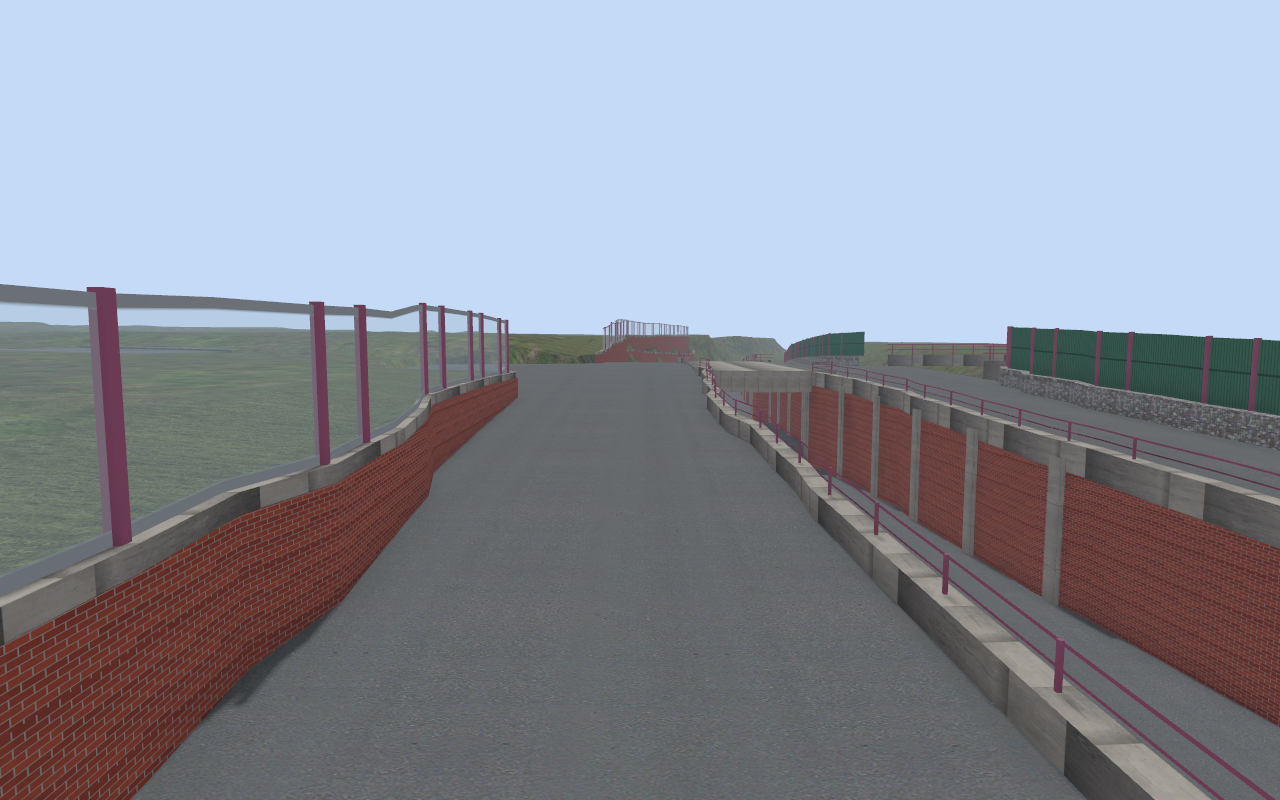
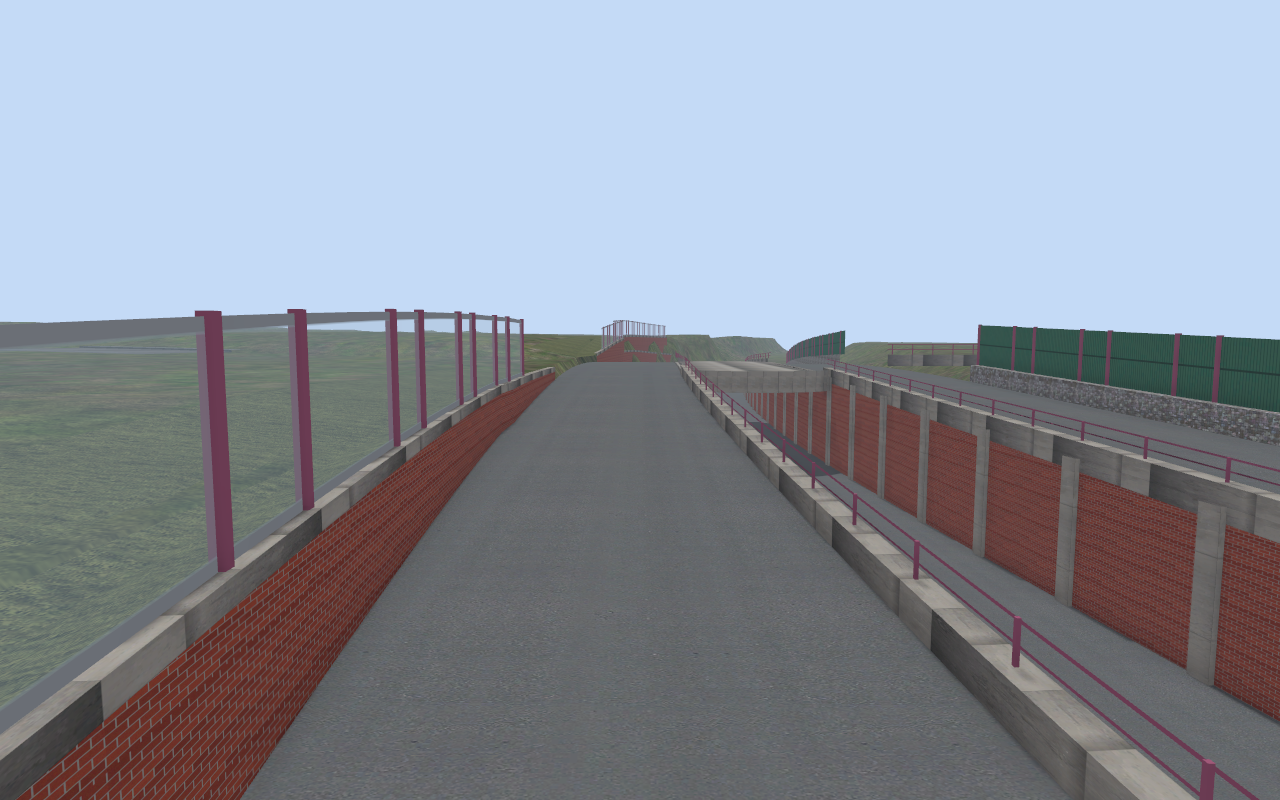
Sonderbau Ring: Waende, Sohle und Decke aus dem Entwurf (Achse aus Geraden/Boegen, feste Wandabstaende, Gradienten)
Rampen laufen ohne Knick in die Ring-Gradiente ein, Mauerkronen folgen dem geglaetteten Gelaende, Pfeiler und Fugen
nach Station.

diff --git a/omsigen/sonderbau_ring.py b/omsigen/sonderbau_ring.py
@@ -3,9 +3,9 @@
 Ein Einzelstueck fuer genau diese Stelle (siehe sonderbau/ring/PLAN.md): der Ring im Trog, die Rampen links und rechts
 auf Stuetzmauern, die Unterfuehrung unter der Ludwigsallee und die Bruecke der Ludwigsallee ueber die Bahn.
 
-Vorgehen: entlang der Ring-Achse (OSM) alle 2 m ein Querschnitt durch das DGM1 (1 m, Bayern). Darin liegen die drei
-Fahrbahnen als ebene Stufen: der Ring unten, die Rampen daneben hoeher (oder gleich hoch, wo sie einmuenden). Aus den
-Stufenkanten und -hoehen entstehen die Waende:
+Vorgehen: alles folgt dem Entwurf (omsigen.ring_entwurf -> sonderbau/ring/entwurf/entwurf.json): Ring-Achse aus
+Geraden und Boegen, Wandlinien in festem Abstand zur Achse, Hoehen als Gradienten mit Ausrundung. Alle 2 m Station
+entlang der Achse; die Waende:
 - Trennwaende Ring/Rampe: Stuetzwand von der Ring-Sohle bis zur Rampe, zur Ring-Seite Klinkerfelder zwischen
   Betonpfeilern, oben Betonkappe, Bruestung mit Gelaender zur Rampe hin.
 - Aussenwand West: Gabionen, darauf eine gruene Laermschutzwand.
@@ -16,6 +16,7 @@ Stufenkanten und -hoehen entstehen die Waende:
 Ausgabe: Objekte (.sco + model/*.x + texture/) im Ordner der Karte und `sonderbau_ring.json` mit ihrer Lage
 (Kartenkoordinaten, Hoehe absolut in der Karte = NN - nn0). Aufruf:
     python -m omsigen.sonderbau_ring --omsi <OMSI-Ordner> --karte Aburg_Newgen --osm sonderbau/ring/osm_map.xml
+        [--entwurf sonderbau/ring/entwurf/entwurf.json]
 Daten: OpenStreetMap (ODbL), DGM1/DOP40 Bayerische Vermessungsverwaltung (CC BY 4.0)."""
 import argparse, json, math, os, shutil, sys
 import xml.etree.ElementTree as ET
@@ -28,7 +29,6 @@ from .kreuzung import x_file
 RING = ['159575718', '227934178', '7975056', '227934179']
 WEST = ['227934180', '183815409', '23781579']          # Einbahn nach Sueden
 OST = ['233369539', '23781578', '7925387']             # (umgedreht: Nord -> Sued) Einbahn nach Norden
-Y_NORD, Y_SUED = -142.0, -414.0                        # Bereich des Trogs (Kartenkoordinaten)
 DECKE = (-253.5, -279.0)                               # Unterfuehrung: Nord- und Suedkante (y)
 SCHRITT = 2.0
 STUECK = 40.0                                          # m je Wand-Objekt
@@ -128,113 +128,60 @@ def linie(ways, ids, umdrehen=False):
     return np.array(pts, float)
 
 
-def schnitt(poly, a, d):
-    """Schnittpunkt der Geraden a + t*d (d Einheitsvektor) mit dem Polygonzug -> t (naechster an 0) oder None"""
-    best = None
-    for p, q in zip(poly[:-1], poly[1:]):
-        e = q - p
-        den = d[0] * (-e[1]) - d[1] * (-e[0])
-        if abs(den) < 1e-9:
-            continue
-        r = p - a
-        t = (r[0] * (-e[1]) - r[1] * (-e[0])) / den
-        u = (d[0] * r[1] - d[1] * r[0]) / den
-        if 0 <= u <= 1 and (best is None or abs(t) < abs(best)):
-            best = t
-    return best
+TRENNSTREIFEN = 1.5      # Ringwand (Sichtflaeche) bis Fahrbahnkante der Rampe: Wand 0,5 m + Bruestung/Bord
+WAND = 0.5               # Dicke der Trennwand
 
 
-def stationen(ring, schritt):
-    """Punkte, Querrichtung (nach Osten) und Weg entlang der Ring-Achse im Bereich Y_SUED..Y_NORD"""
-    seg = np.hypot(*np.diff(ring, axis=0).T)
-    s = np.concatenate([[0], np.cumsum(seg)])
-    out = []
-    for t in np.arange(0, s[-1], schritt):
-        k = min(np.searchsorted(s, t, side='right') - 1, len(seg) - 1)
-        f = (t - s[k]) / seg[k]
-        p = ring[k] + (ring[k + 1] - ring[k]) * f
-        if not (Y_SUED <= p[1] <= Y_NORD):
-            continue
-        d = (ring[k + 1] - ring[k]) / seg[k]               # Nord -> Sued
-        quer = np.array([-d[1], d[0]])                     # rechts von Sued = ...
-        if quer[0] < 0:
-            quer = -quer                                   # immer nach Osten
-        out.append((p, quer, d))
-    return out
-
-
-def stufe(h, ts, t0, z, tol=0.45):
-    """zusammenhaengende Stufe auf Hoehe z um t0: (links, rechts) im Querschnitt"""
-    i0 = int(np.argmin(np.abs(ts - t0)))
-    lo = hi = i0
-    while lo > 0 and abs(h[lo - 1] - z) < tol:
-        lo -= 1
-    while hi < len(ts) - 1 and abs(h[hi + 1] - z) < tol:
-        hi += 1
-    return ts[lo], ts[hi]
-
-
-def glatt(werte, fenster=5):
-    a = np.array(werte, float)
-    out = a.copy()
-    k = fenster // 2
-    for i in range(len(a)):
-        w = a[max(0, i - k):i + k + 1]
-        w = w[~np.isnan(w)]
-        out[i] = np.median(w) if len(w) else np.nan
-    return out
-
-
-def vermessen(ways, dgm, E0, N0, nn0):
-    ring = linie(ways, RING)
-    west = linie(ways, WEST)
-    ost = linie(ways, OST, umdrehen=True)
-    st = stationen(ring, SCHRITT)
-    ts = np.arange(-28.0, 28.01, 0.5)
+def aus_entwurf(entwurf, dgm, E0, N0, nn0, schritt=SCHRITT):
+    """Stationen aus dem Entwurf (ring_entwurf: Achse, Kantenabstaende, Gradienten) - alles glatt, parallel zur
+    Achse. Je Station dasselbe Format wie frueher die Messung: p, quer (nach Osten), d (Nord -> Sued), s, zr (Ring),
+    ra/rb (Ringwaende West/Ost, quer gemessen), w/o: Rampe mit a/b (Kanten West/Ost), z (Hoehe), g (Gelaende hinter der
+    Aussenwand, als Gradiente geglaettet)"""
+    from .sonderbau_entwurf import (achse_aus_json, gradiente_aus_json, versatz_aus_json, weich_max,
+                                    gradiente_anpassen, ohne_ausreisser)
+    achse = achse_aus_json(entwurf['achse'])
+    K = {k: versatz_aus_json(v) for k, v in entwurf['kanten'].items()}
+    G = {k: gradiente_aus_json(v) for k, v in entwurf['hoehen'].items()}
+    # Bereich: wo es Ringwaende gibt
+    von = min(min(a for a, _, _ in K[k].a) for k in ('ring_w', 'ring_o'))
+    bis = max(max(b for _, b, _ in K[k].a) for k in ('ring_w', 'ring_o'))
+    S = np.arange(von, bis + 1e-6, schritt)
+    A = achse.punkte(S)
+    zr = G['ring'].z(S)
+    # Kanten: Entwurf t > 0 = rechts von Nord -> Sued = West; hier quer nach Osten -> Vorzeichen drehen
+    tq = {k: -v.t(S) for k, v in K.items()}
+    zw = {sd: weich_max(np.where((S >= G[f'rampe_{sd}'].k[0] - 30) & (S <= G[f'rampe_{sd}'].k[-1] + 30), G[f'rampe_{sd}'].z(S), -99), zr) for sd in ('w', 'o')}
     roh = []
-    for p, quer, d in st:
-        xs, ys = p[0] + quer[0] * ts, p[1] + quer[1] * ts
-        h = dgm.hoehen(E0 + xs, N0 + ys) - nn0
-        zr = float(np.median(h[np.abs(ts) <= 1.5]))
-        unter_decke = DECKE[1] <= p[1] <= DECKE[0]
-        if unter_decke:
-            # dort zeigt das DGM die Decke: Ring-Sohle aus den Nachbarn (spaeter interpoliert)
-            zr = np.nan
-            ra, rb = -4.2, 4.2
-        else:
-            ra, rb = stufe(h, ts, 0.0, zr)
-        tw, to = schnitt(west, p, -quer), schnitt(ost, p, quer)
-        e = dict(p=p, quer=quer, d=d, zr=zr, ra=ra, rb=rb, unter_decke=unter_decke)
-        for name, t, vz in (('w', tw, -1), ('o', to, 1)):
-            if t is None:
-                e[name] = None
-                continue
-            t = t * vz
-            z = float(np.median(h[np.abs(ts - t) <= 1.0]))
-            a, b = stufe(h, ts, t, z)
-            # Gelaende aussen: 3 m hinter der Fahrbahnkante
-            g = float(np.interp(a - 3.0 if vz < 0 else b + 3.0, ts, h))
-            e[name] = dict(t=t, z=z, a=a, b=b, g=g)
+    for i, s in enumerate(S):
+        x, y, th = A[i]
+        d = np.array([math.cos(th), math.sin(th)])
+        quer = np.array([-d[1], d[0]])
+        if quer[0] < 0:
+            quer = -quer
+        ra = tq['ring_w'][i] if not np.isnan(tq['ring_w'][i]) else -4.6
+        rb = tq['ring_o'][i] if not np.isnan(tq['ring_o'][i]) else 4.6
+        e = dict(s=float(s), p=np.array([x, y]), quer=quer, d=d, zr=float(zr[i]), ra=float(ra), rb=float(rb),
+                 unter_decke=DECKE[1] <= y <= DECKE[0])
+        for sd, vz in (('w', -1), ('o', 1)):
+            aussen_t = tq[f'rampe_aussen_{sd}'][i]
+            if np.isnan(aussen_t):
+                aussen_t = (ra if vz < 0 else rb) + vz * (TRENNSTREIFEN + 6.5)
+            innen = (ra if vz < 0 else rb) + vz * TRENNSTREIFEN
+            a, b = (aussen_t, innen) if vz < 0 else (innen, aussen_t)
+            e[sd] = dict(a=float(a), b=float(b), z=float(zw[sd][i]), g=np.nan)
         roh.append(e)
-    # glaetten (Kanten springen im 1-m-DGM um eine Zelle)
-    for key in ('zr', 'ra', 'rb'):
-        werte = glatt([e[key] for e in roh])
-        for e, w in zip(roh, werte):
-            e[key] = w
-    # Ring-Sohle unter der Decke: linear zwischen den Raendern
-    zr = np.array([e['zr'] for e in roh])
-    ok = ~np.isnan(zr)
-    idx = np.arange(len(zr))
-    zr[~ok] = np.interp(idx[~ok], idx[ok], zr[ok])
-    for e, z in zip(roh, zr):
-        e['zr'] = float(z)
-    for name in ('w', 'o'):
-        for key in ('z', 'a', 'b', 'g', 't'):
-            werte = glatt([e[name][key] if e[name] else np.nan for e in roh])
-            for e, w in zip(roh, werte):
-                if e[name] is not None and not np.isnan(w):
-                    e[name][key] = float(w)
-    return roh
+    # Gelaende hinter den Aussenwaenden (3 m), je Seite als Gradiente geglaettet - Mauerkronen ohne Wellen
+    for sd, vz in (('w', -1), ('o', 1)):
+        t = np.array([(e[sd]['a'] if vz < 0 else e[sd]['b']) + vz * 3.0 for e in roh])
+        P = np.array([e['p'] + e['quer'] * tt for e, tt in zip(roh, t)])
+        g = dgm.hoehen(E0 + P[:, 0], N0 + P[:, 1]) - nn0
+        knoten = np.array([im_knoten(e) for e in roh])
+        g = np.where(knoten, np.nan, g)
+        gr, _ = ohne_ausreisser(S, g, lambda a, b: gradiente_anpassen(a, b, toleranz=0.2, max_stuecke=8, min_laenge=10.0),
+                                lambda gg, x: gg.z(x), 0.8)
+        for e, wert in zip(roh, gr.z(S)):
+            e[sd]['g'] = float(wert)
+    return roh, achse
 
 
 # ------------------------------------------------------------------ Bauteile
@@ -249,9 +196,8 @@ def fuge(e, seite):
     vz = -1 if seite == 'w' else 1
     if r is None or r['z'] - e['zr'] < 0.4 and not e['unter_decke']:
         return None
-    kante_ring = e['ra'] if vz < 0 else e['rb']
-    kante_rampe = r['b'] if vz < 0 else r['a']
-    return (kante_ring + kante_rampe) / 2.0 if abs(kante_ring - kante_rampe) < 3.0 else kante_ring + vz * 0.4
+    # die Ringwand-Kante ist die Sichtflaeche zum Ring; die Wand steht dahinter
+    return (e['ra'] if vz < 0 else e['rb']) + vz * WAND / 2
 
 
 def im_knoten(e):
@@ -264,7 +210,7 @@ def aussen(e, seite):
     r = e[seite]
     if r is None or im_knoten(e) or r['z'] - e['zr'] < 0.4 and abs(r['g'] - r['z']) < 0.6:
         return None
-    return r['a'] - 0.2 if seite == 'w' else r['b'] + 0.2
+    return r['a'] if seite == 'w' else r['b']
 
 
 def rand(e, seite):
@@ -301,7 +247,7 @@ def trennwand(roh, seite, o):
         ra_a, ra_b = ta + vz * dicke / 2, tb + vz * dicke / 2
         za, zb = ea['zr'] - 0.3, eb['zr'] - 0.3
         kappe_a, kappe_b = oa + 0.05, ob + 0.05
-        laenge = float(np.linalg.norm(welt(eb, tb, 0) - welt(ea, ta, 0)))
+        s_ges, laenge = ea['s'], eb['s'] - ea['s']        # Teilung nach Station: Pfeiler und Fugen laufen durch
         n_ring = np.append(-vz * ea['quer'], 0)
         p = lambda e, t, z: welt(e, t, z) - o
         # Klinker bis 0,4 m unter die Kappe, darueber Beton
@@ -361,7 +307,7 @@ def aussenwand(roh, seite, o):
         if a is None or b is None:
             continue
         (ea, ta, za, ga), (eb, tb, zb, gb) = a, b
-        laenge = float(np.linalg.norm(welt(eb, tb, 0) - welt(ea, ta, 0)))
+        s_ges, laenge = ea['s'], eb['s'] - ea['s']        # Teilung nach Station: Pfeiler und Fugen laufen durch
         n_innen = np.append(-vz * ea['quer'], 0)          # zur Rampe hin
         hoch_a, hoch_b = max(ga, za) + 0.3, max(gb, zb) + 0.3
         if seite == 'w':
@@ -708,14 +654,16 @@ def schreiben(ordner, rel_ordner, name, mesh, o, liste):
     liste.append(dict(name=name, rel=rel_ordner + '\\' + name + '.sco', x=float(o[0]), y=float(o[1]), z=float(o[2]), dreiecke=len(mesh.F)))
 
 
-def bauen(omsi, karte, osm_pfad, nn0, ost0, nord0, cache):
+def bauen(omsi, karte, osm_pfad, entwurf_pfad, nn0, ost0, nord0, cache):
     ordner = os.path.join(omsi, 'Sceneryobjects', 'Aschaffenburg', karte, 'Sonderbau_Ring')
     rel = f'Sceneryobjects\\Aschaffenburg\\{karte}\\Sonderbau_Ring'
     os.makedirs(os.path.join(ordner, 'model'), exist_ok=True)
     texturen(omsi, os.path.join(ordner, 'texture'))
     ways = lade_osm(osm_pfad, ost0, nord0)
     dgm = Dgm1(cache)
-    roh = vermessen(ways, dgm, ost0, nord0, nn0)
+    with open(entwurf_pfad, encoding='utf-8') as f:
+        entwurf = json.load(f)
+    roh, _ = aus_entwurf(entwurf, dgm, ost0, nord0, nn0)
     karte_gel = Kartengelaende(os.path.join(omsi, 'maps', karte))
     liste = []
     # Waende in Stuecken von STUECK m (Ursprung je Stueck: erster Punkt auf der Ring-Achse, Hoehe 0)
@@ -735,7 +683,7 @@ def bauen(omsi, karte, osm_pfad, nn0, ost0, nord0, cache):
     o = np.array([1056.0, -266.0, 0.0])
     bb, _ = bahnbruecke(ways, dgm, ost0, nord0, nn0, o)
     schreiben(ordner, rel, 'Bahnbruecke', bb, o, liste)
-    messung = [dict(x=float(e['p'][0]), y=float(e['p'][1]), ring=[float(e['ra']), float(e['rb']), float(e['zr'])],
+    messung = [dict(s=e['s'], x=float(e['p'][0]), y=float(e['p'][1]), ring=[float(e['ra']), float(e['rb']), float(e['zr'])],
                     west=None if e['w'] is None else [e['w'][k] for k in ('a', 'b', 'z', 'g')],
                     ost=None if e['o'] is None else [e['o'][k] for k in ('a', 'b', 'z', 'g')], decke=bool(e['unter_decke'])) for e in roh]
     out = dict(karte=karte, nn0=nn0, objekte=liste, gelaende=gelaende(roh), messung=messung, quellen=['OpenStreetMap (ODbL)', 'DGM1/DOP40 Bayerische Vermessungsverwaltung (CC BY 4.0)'])
@@ -749,6 +697,7 @@ def main():
     ap.add_argument('--omsi', required=True)
     ap.add_argument('--karte', required=True)
     ap.add_argument('--osm', required=True)
+    ap.add_argument('--entwurf', default=os.path.join('sonderbau', 'ring', 'entwurf', 'entwurf.json'))
     ap.add_argument('--cache', default=os.path.join(os.environ.get('LOCALAPPDATA', '.'), 'omsi-editor', 'geodaten'))
     a = ap.parse_args()
     geo = {}
@@ -757,7 +706,7 @@ def main():
             if '=' in z and not z.startswith('#'):
                 k, v = z.split('=', 1)
                 geo[k.strip()] = v.strip()
-    out = bauen(a.omsi, a.karte, a.osm, float(geo['nn0']), float(geo['ost0']), float(geo['nord0']), a.cache)
+    out = bauen(a.omsi, a.karte, a.osm, a.entwurf, float(geo['nn0']), float(geo['ost0']), float(geo['nord0']), a.cache)
     for o in out['objekte']:
         print(f"{o['name']:24s} {o['dreiecke']:6d} Dreiecke  bei {o['x']:.1f} {o['y']:.1f}")
     print(f"{len(out['objekte'])} Objekte, {len(out['messung'])} Querschnitte")

diff --git a/omsigen/sonderbau_entwurf.py b/omsigen/sonderbau_entwurf.py
@@ -342,3 +342,22 @@ def versatz_anpassen(s, t, toleranz=0.12, max_stuecke=6, min_laenge=12.0, raster
     abschnitte[0][0] = min(abschnitte[0][0], s.min())
     abschnitte[-1][1] = max(abschnitte[-1][1], s.max())
     return Versatz(abschnitte)
+
+
+# ------------------------------------------------------------------ Laden (entwurf.json)
+def achse_aus_json(j):
+    return Achse(j['x'], j['y'], math.radians(j['richtung_grad']),
+                 [(e['laenge'], 0.0 if e['radius'] is None else 1.0 / e['radius']) for e in j['elemente']])
+
+
+def gradiente_aus_json(j):
+    return Gradiente(j['knoten'], j['hoehen'], j['ausrundung'])
+
+
+def versatz_aus_json(j):
+    return Versatz([(a['von'], a['bis'], a['abstand']) for a in j])
+
+
+def weich_max(a, b, k=0.4):
+    """glattes Maximum (Uebergang ueber etwa k): Rampe laeuft ohne Knick in den Ring ein"""
+    return (a + b + np.sqrt((a - b) ** 2 + k * k)) / 2

diff --git a/sonderbau/ring/PLAN.md b/sonderbau/ring/PLAN.md
@@ -34,7 +34,7 @@ im Straßenbau (`omsigen/sonderbau_entwurf.py`, `python -m omsigen.ring_entwurf 
 1. **Bauwerk-Objekt:** Trog (Wände, Trennwände, Lärmschutz), Unterführung (Decke mit Rundung, Klinker innen) –
    aus den gemessenen Linien und DGM1-Höhen, als Objekte; Prüfbild aus openOMSI gegen die Fotos.
    **Stand:** `python -m omsigen.sonderbau_ring --omsi … --karte Aburg_Newgen --osm sonderbau/ring/osm_map.xml`
-   erzeugt 41 Objekte in `Sceneryobjects/Aschaffenburg/Aburg_Newgen/Sonderbau_Ring/` (Trennwände, Außenwände,
+   erzeugt aus dem Entwurf (`entwurf/entwurf.json`) 38 Objekte in `Sceneryobjects/Aschaffenburg/Aburg_Newgen/Sonderbau_Ring/` (Trennwände, Außenwände,
    Sohle/Rampenplatten, Deckel, Unterführung, Bahnbrücke) und `sonderbau_ring.json` (Lage, abzusenkende
    Geländepunkte, Messung). Prüfbilder: `cargo test --release ring_bauwerk -- --ignored` mit `OMSI_BILD`
    (Sitzungsordner, die Karte bleibt unverändert) → `etappe1/*.png`.
